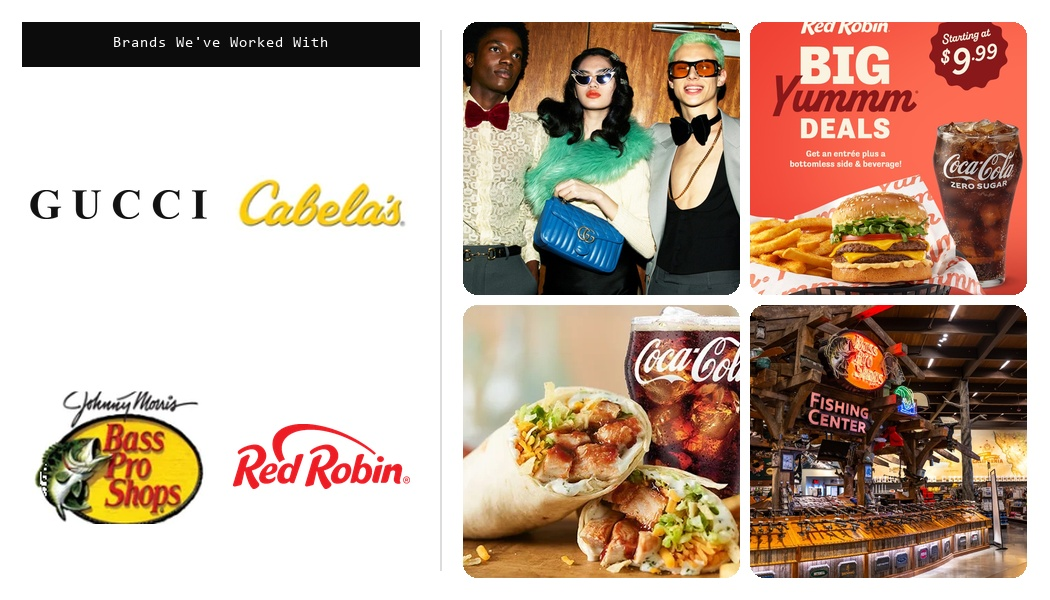
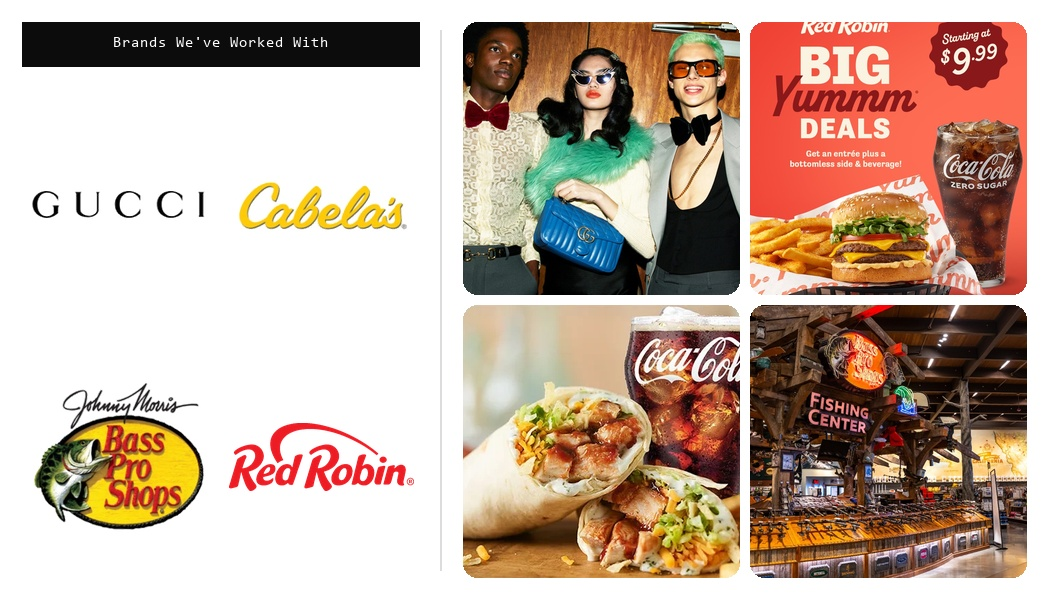
ss

Changed region(s): [[0.0305, 0.63, 0.3962, 0.9], [0.0305, 0.3, 0.3962, 0.39]]

diff --git a/assets/business-cards/build_back_mosaic.py b/assets/business-cards/build_back_mosaic.py
@@ -25,7 +25,9 @@ PAD = 22
 GAP = 10
 RADIUS = 14
 
-HEADER = "Brands We've Worked With"
+HEADER = "BRANDS WE'VE WORKED WITH"
+ARMATA = ROOT.parent / "linkedin" / "fonts" / "Armata-Regular.ttf"
+ARMATA_PUBLIC = ROOT.parent.parent / "public" / "fonts" / "armata.ttf"
 
 LOGO_FILES = [
     LOGOS / "official_gucci.png",
@@ -43,12 +45,26 @@ TILES = [
 ]
 
 
-def load_font(size: int) -> ImageFont.FreeTypeFont | ImageFont.ImageFont:
-    for path in (
-        r"C:\Windows\Fonts\consola.ttf",
-        r"C:\Windows\Fonts\cour.ttf",
-        r"C:\Windows\Fonts\arial.ttf",
-    ):
+def load_font(size: int, fancy: bool = False) -> ImageFont.FreeTypeFont | ImageFont.ImageFont:
+    candidates = []
+    if fancy:
+        candidates.extend(
+            [
+                str(ARMATA),
+                str(ARMATA_PUBLIC),
+                r"C:\Windows\Fonts\seguisb.ttf",
+                r"C:\Windows\Fonts\segoeuil.ttf",
+                r"C:\Windows\Fonts\calibril.ttf",
+                r"C:\Windows\Fonts\georgia.ttf",
+            ]
+        )
+    candidates.extend(
+        [
+            r"C:\Windows\Fonts\arial.ttf",
+            r"C:\Windows\Fonts\consola.ttf",
+        ]
+    )
+    for path in candidates:
         if os.path.exists(path):
             return ImageFont.truetype(path, size)
     return ImageFont.load_default()
@@ -81,20 +97,68 @@ def fit_contain(im: Image.Image, max_w: int, max_h: int) -> Image.Image:
     return src.resize((nw, nh), Image.Resampling.LANCZOS)
 
 
-def draw_header_bar(canvas: Image.Image, x: int, y: int, width: int, height: int) -> None:
-    draw = ImageDraw.Draw(canvas)
-    draw.rectangle([x, y, x + width, y + height], fill=BLACK)
-    font = load_font(15)
-    # tracked monospace label
-    spacing = 1
-    chars = list(HEADER)
+def draw_tracked_text(
+    draw: ImageDraw.ImageDraw,
+    text: str,
+    font: ImageFont.ImageFont,
+    fill: tuple[int, int, int],
+    cx: float,
+    cy: float,
+    tracking: float,
+) -> tuple[float, float]:
+    """Draw centered text with letter-spacing. Returns (total_w, text_h)."""
+    chars = list(text)
     widths = [draw.textbbox((0, 0), ch, font=font)[2] for ch in chars]
-    total = sum(widths) + spacing * (len(chars) - 1)
-    tx = x + max(0, (width - total) // 2)
-    ty = y + (height - 15) // 2 - 1
+    heights = [draw.textbbox((0, 0), ch, font=font)[3] for ch in chars]
+    gaps = tracking * (len(chars) - 1)
+    total_w = sum(widths) + gaps
+    text_h = max(heights) if heights else 0
+    x = cx - total_w / 2
+    y = cy - text_h / 2
     for ch, cw in zip(chars, widths):
-        draw.text((tx, ty), ch, font=font, fill=WHITE)
-        tx += cw + spacing
+        draw.text((x, y), ch, font=font, fill=fill)
+        x += cw + tracking
+    return total_w, text_h
+
+
+def draw_header_bar(canvas: Image.Image, x: int, y: int, width: int, height: int) -> None:
+    """Editorial black plaque — Armata caps, wide tracking, soft corners, hairline inset."""
+    draw = ImageDraw.Draw(canvas)
+    radius = height // 2  # pill / soft capsule
+    draw.rounded_rectangle([x, y, x + width, y + height], radius=radius, fill=BLACK)
+
+    # Hairline inset in soft white for polish
+    inset = 3
+    draw.rounded_rectangle(
+        [x + inset, y + inset, x + width - inset, y + height - inset],
+        radius=max(1, radius - inset),
+        outline=(255, 255, 255),
+        width=1,
+    )
+
+    font = load_font(13, fancy=True)
+    # Fit tracking to the plaque width
+    pad_x = 22
+    avail = width - pad_x * 2
+    # Measure at zero tracking, then distribute leftover as letter-spacing
+    zero_w, _ = draw_tracked_text(
+        draw, HEADER, font, BLACK, -1000, -1000, tracking=0
+    )  # off-canvas measure via bbox fallback
+    # Proper measure without drawing:
+    widths = [draw.textbbox((0, 0), ch, font=font)[2] for ch in HEADER]
+    base_w = sum(widths)
+    n_gaps = max(1, len(HEADER) - 1)
+    tracking = max(1.5, min(4.5, (avail - base_w) / n_gaps))
+
+    draw_tracked_text(
+        draw,
+        HEADER,
+        font,
+        WHITE,
+        cx=x + width / 2,
+        cy=y + height / 2 - 0.5,
+        tracking=tracking,
+    )
 
 
 def paste_centered(canvas: Image.Image, im: Image.Image, box: tuple[int, int, int, int]) -> None:
@@ -133,8 +197,8 @@ def build_back() -> Image.Image:
         col, row = i % 2, i // 2
         x0 = logo_left + col * (cell_w + GAP)
         y0 = logo_top + row * (cell_h + GAP)
-        # Inset so logos breathe inside cells
-        inset = 8
+        # Inset so logos breathe inside cells (hi-res marks can sit larger)
+        inset = 4
         paste_centered(
             canvas,
             Image.open(path),
